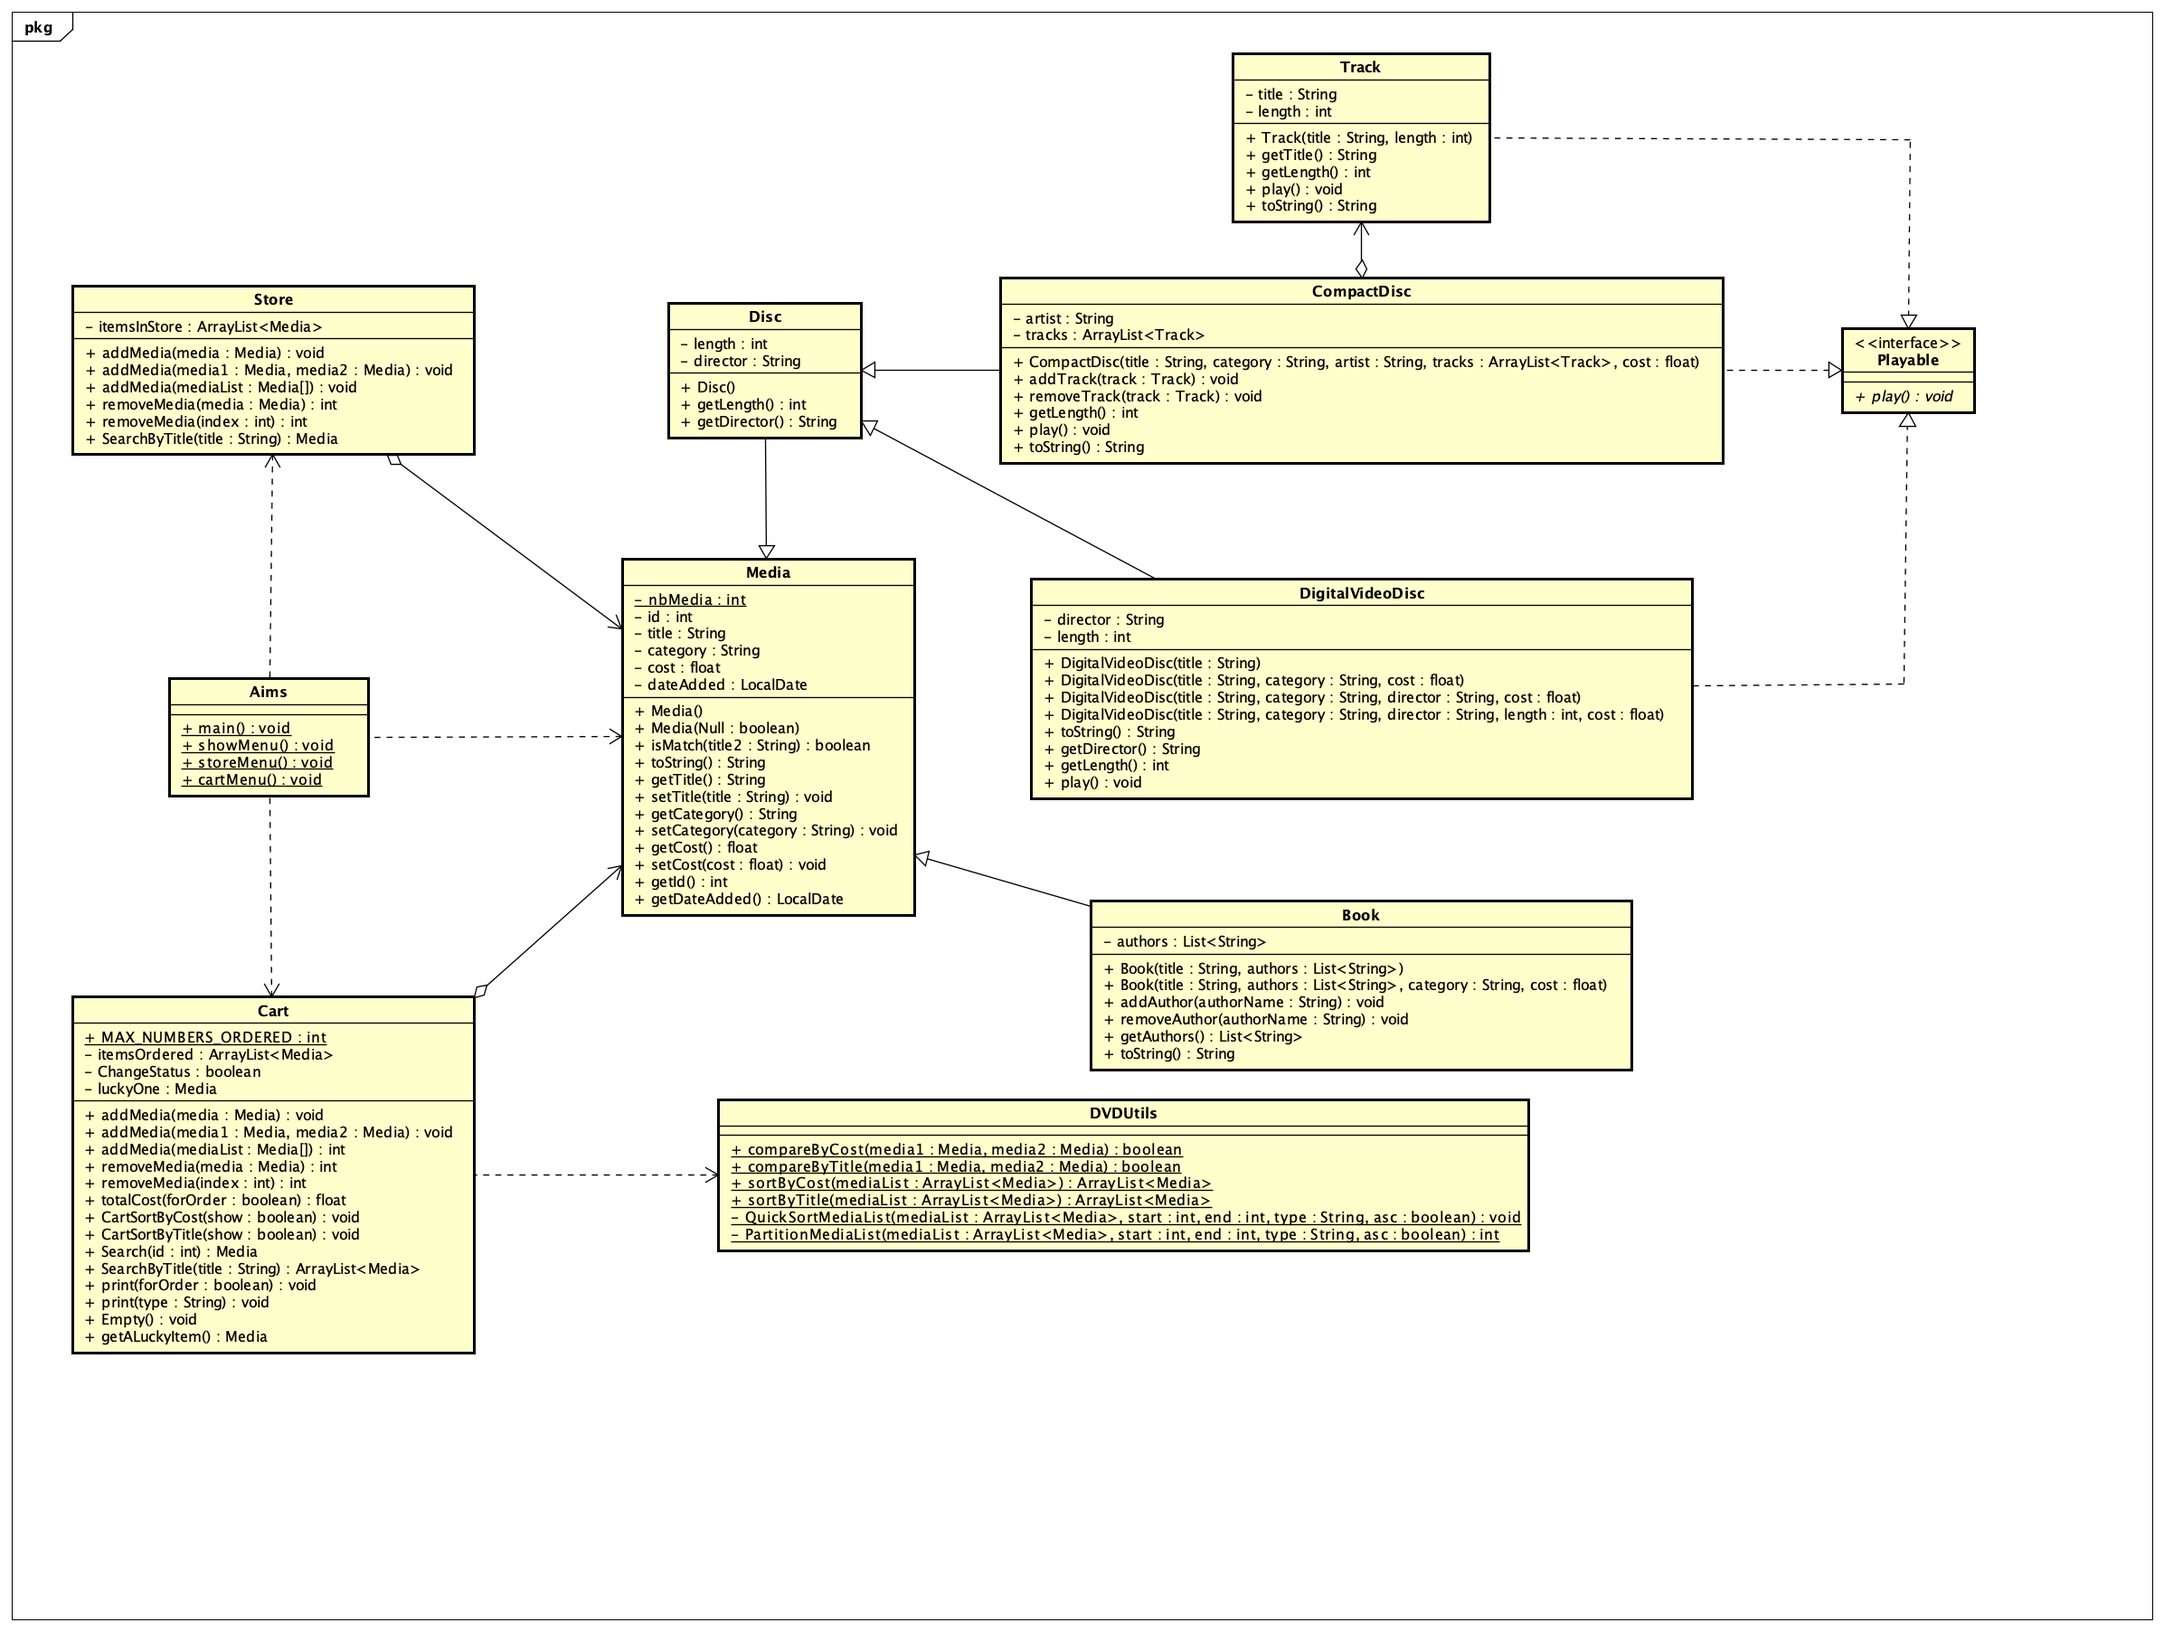
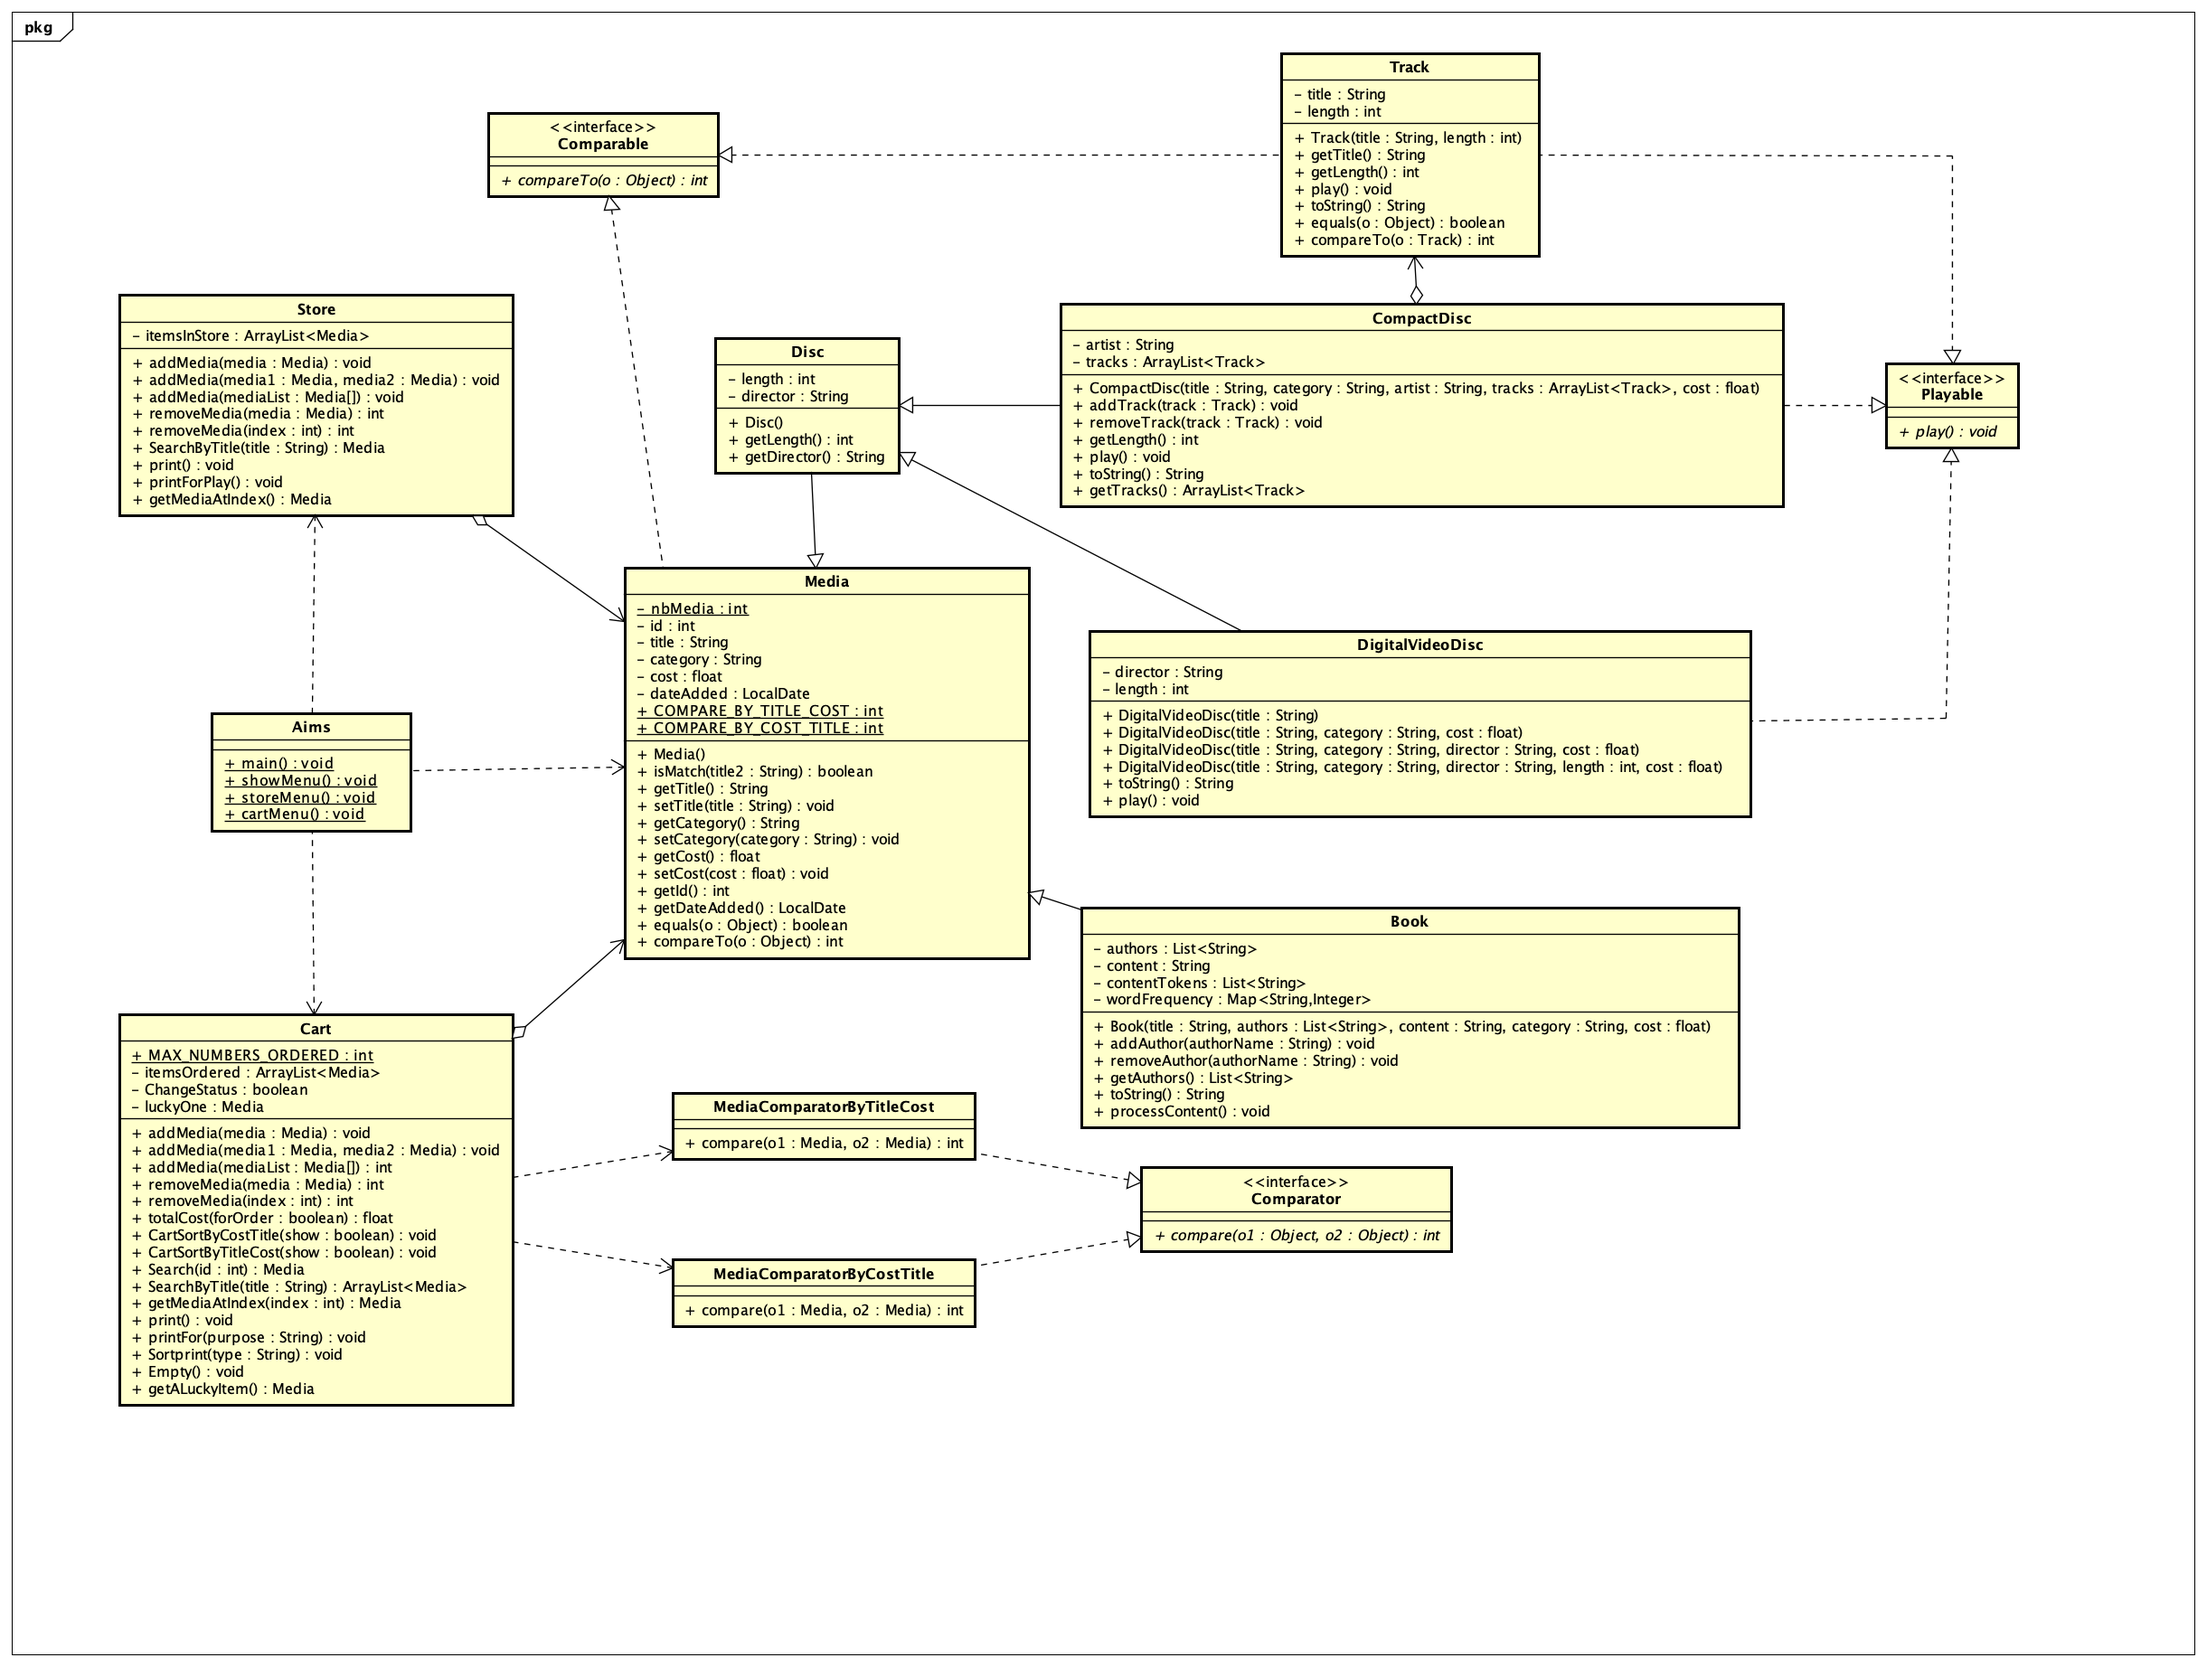
update class diagram

diff --git a/AimsProject/src/hust/soict/dsai/aims/media/Media.java b/AimsProject/src/hust/soict/dsai/aims/media/Media.java
@@ -84,8 +84,8 @@ public class Media implements Comparable<Media>{
 		
 		int lenMin = Math.min(l1, l2);
 		for(int i = 0; i < lenMin; i++) {
-			if((int)this.getTitle().charAt(i) != (int)o.getTitle().charAt(i)) {
-				return (int)this.getTitle().charAt(i) - (int)o.getTitle().charAt(i);
+			if((int)this.getTitle().toLowerCase().charAt(i) != (int)o.getTitle().toLowerCase().charAt(i)) {
+				return (int)this.getTitle().toLowerCase().charAt(i) - (int)o.getTitle().toLowerCase().charAt(i);
 			}
 		}
 		if(l1 != l2) {
@@ -97,8 +97,8 @@ public class Media implements Comparable<Media>{
 		
 		int clenMin = Math.min(cl1, cl2);
 		for(int i = 0; i < clenMin; i++) {
-			if((int)this.getCategory().charAt(i) != (int)o.getCategory().charAt(i)) {
-				return (int)this.getCategory().charAt(i) - (int)o.getCategory().charAt(i);
+			if((int)this.getCategory().toLowerCase().charAt(i) != (int)o.getCategory().toLowerCase().charAt(i)) {
+				return (int)this.getCategory().toLowerCase().charAt(i) - (int)o.getCategory().toLowerCase().charAt(i);
 			}
 		}
 

diff --git a/AimsProject/src/hust/soict/dsai/aims/media/CompactDisc.java b/AimsProject/src/hust/soict/dsai/aims/media/CompactDisc.java
@@ -51,13 +51,9 @@ public class CompactDisc extends Disc implements Playable{
 		return sumLength;
 	}
 
-	public String getArtist() {
-		return artist;
-	}
-
 	@Override
 	public void play() {
-		System.out.println("Artist: " + this.getArtist());
+		System.out.println("Artist: " + this.artist);
 		System.out.println("Total length: " + this.getLength());
 		
 		for(Track t: this.tracks) {
@@ -74,6 +70,6 @@ public class CompactDisc extends Disc implements Playable{
 			tracksString+= this.tracks.get(i).toString();
 		}
 		
-		return "CD" + "\nTitle: " + this.getTitle() + "\nCategory: " + this.getCategory() + "\nArtist: " + this.getArtist() + "\nLength: " + this.getLength() + "\nCost: " + this.getCost() + "$" + tracksString;
+		return "CD" + "\nTitle: " + this.getTitle() + "\nCategory: " + this.getCategory() + "\nArtist: " + this.artist + "\nLength: " + this.getLength() + "\nCost: " + this.getCost() + "$" + tracksString;
 	}
 }

diff --git a/AimsProject/src/hust/soict/dsai/aims/media/Track.java b/AimsProject/src/hust/soict/dsai/aims/media/Track.java
@@ -1,6 +1,6 @@
 package hust.soict.dsai.aims.media;
 
-public class Track implements Playable{
+public class Track implements Playable, Comparable<Track>{
 	private String title;
 	private int length;
 
@@ -36,5 +36,20 @@ public class Track implements Playable{
 		}
 		
 		return false;
+	}
+
+	@Override
+	public int compareTo(Track o) {
+		int l1 = this.getTitle().length();
+		int l2 = o.getTitle().length();
+		
+		int lenMin = Math.min(l1, l2);
+		for(int i = 0; i < lenMin; i++) {
+			if((int)this.getTitle().toLowerCase().charAt(i) != (int)o.getTitle().toLowerCase().charAt(i)) {
+				return (int)this.getTitle().toLowerCase().charAt(i) - (int)o.getTitle().toLowerCase().charAt(i);
+			}
+		}
+		
+		return l1 - l2;
 	}
 }
